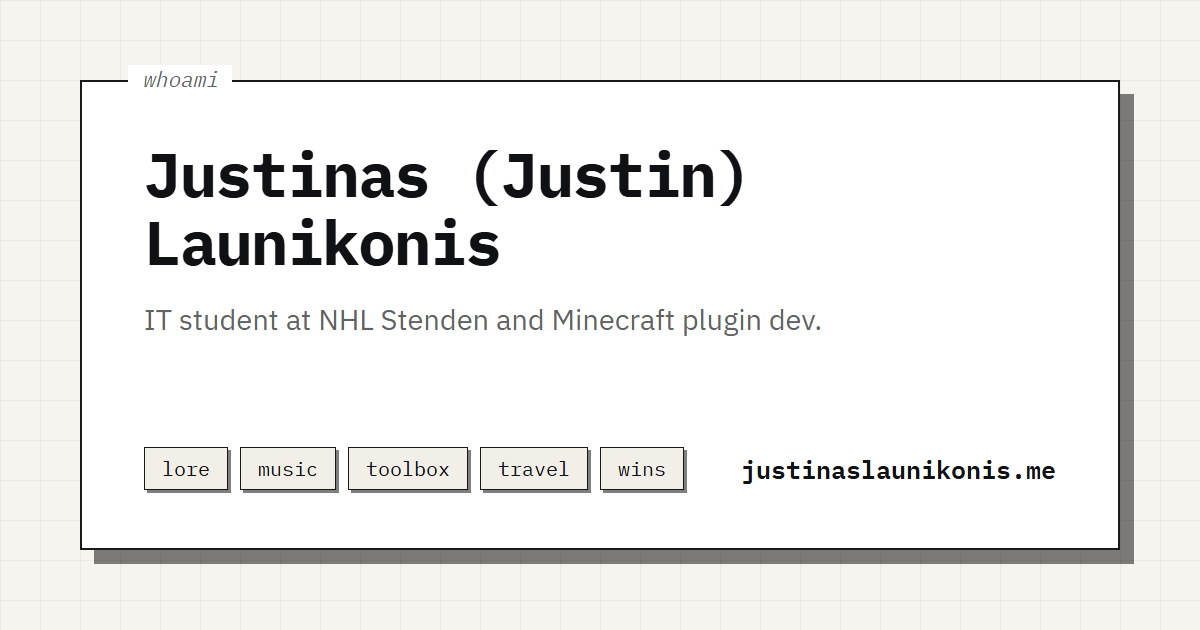
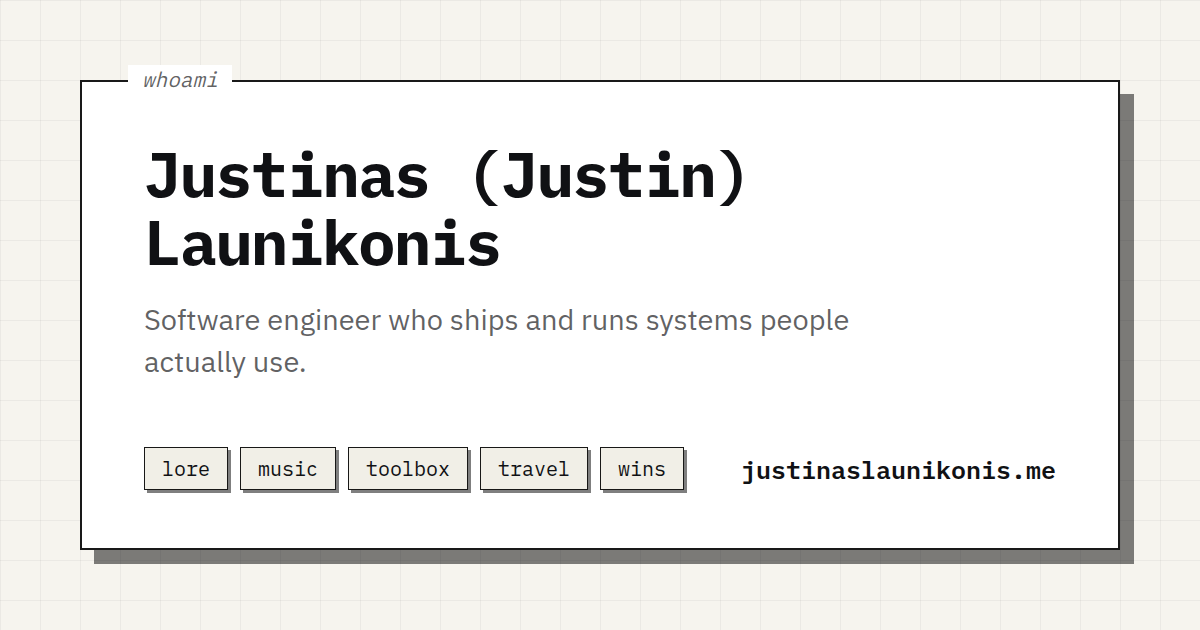
Update the meta description and share card to the new pitch

diff --git a/index.html b/index.html
@@ -8,14 +8,14 @@
 <title>Justinas Launikonis</title>
 <meta content="website" property="og:type"/>
 <meta content="Justinas Launikonis" property="og:title"/>
-<meta content="Justinas (Justin) Launikonis — IT student at NHL Stenden and Minecraft plugin developer. Projects, experience, and a few side quests." property="og:description"/>
+<meta content="Justinas (Justin) Launikonis — software engineer who ships and runs systems: a production SaaS, a 6,000-player game platform and an overnight AI build pipeline." property="og:description"/>
 <meta content="https://justinaslaunikonis.me/assets/og.png" property="og:image"/>
 <meta content="1200" property="og:image:width"/>
 <meta content="630" property="og:image:height"/>
 <meta content="https://justinaslaunikonis.me/" property="og:url"/>
 <meta content="Justinas Launikonis" property="og:site_name"/>
 <link href="https://justinaslaunikonis.me/" rel="canonical"/>
-<meta content="Justinas (Justin) Launikonis — IT student at NHL Stenden and Minecraft plugin developer. Projects, experience, and a few side quests." name="description"/>
+<meta content="Justinas (Justin) Launikonis — software engineer who ships and runs systems: a production SaaS, a 6,000-player game platform and an overnight AI build pipeline." name="description"/>
 <script>
     (() => {
       const storedTheme = localStorage.getItem("theme");

diff --git a/assets/og-card.html b/assets/og-card.html
@@ -109,7 +109,7 @@
   <div class="legend">whoami</div>
   <div>
     <h1>Justinas (Justin)<br/>Launikonis</h1>
-    <p class="tagline">IT student at NHL Stenden and Minecraft plugin dev.</p>
+    <p class="tagline">Software engineer who ships and runs systems people actually use.</p>
   </div>
   <div class="foot">
     <div class="tags">
